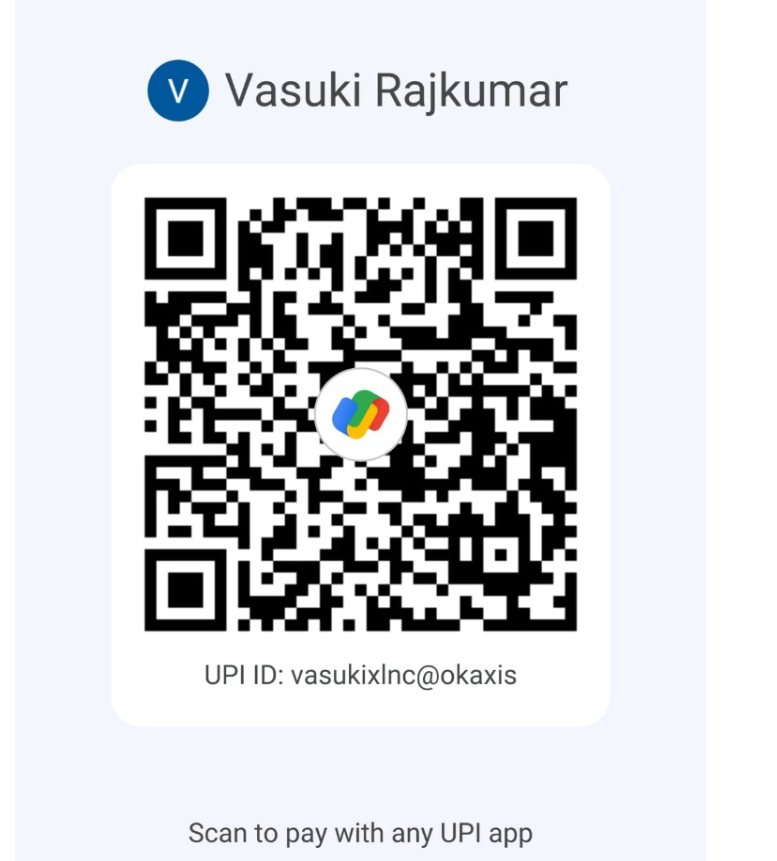
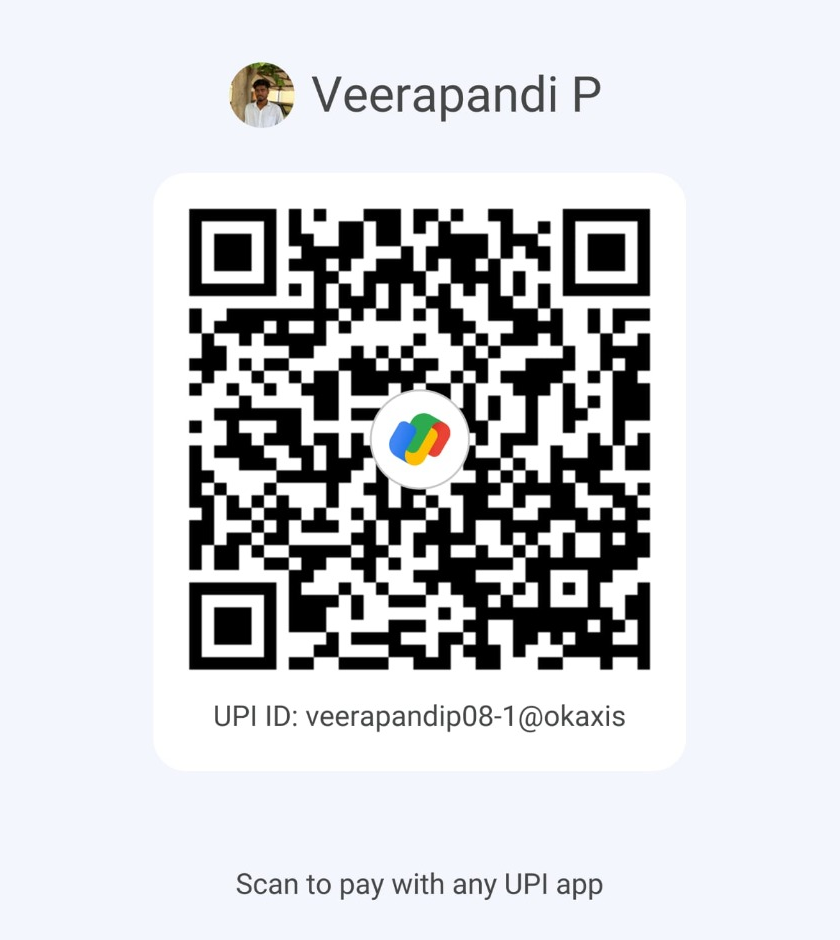
feat: update payment QR code and UPI ID to Veerapandi P (veerapandip08-1@okaxis)

Changed region(s): [[0.1853, 0.2114, 0.7722, 0.8153], [0.1853, 0.0604, 0.7413, 0.151], [0.2471, 0.9059, 0.7104, 0.9965]]

diff --git a/register.html b/register.html
@@ -377,11 +377,11 @@
 
             <div class="upi-copy-box">
               <span style="font-size: 0.85rem; color: var(--silver-mid);">UPI ID: <strong class="text-gold"
-                  id="upi-id-text">vasukixlnc@okaxis</strong></span>
+                  id="upi-id-text">veerapandip08-1@okaxis</strong></span>
               <button type="button" id="copy-upi-btn" class="btn btn-admin"
                 style="padding: 4px 10px; font-size: 0.75rem;" title="Copy UPI ID">Copy</button>
             </div>
-            <div class="text-muted" style="font-size: 0.75rem; margin-top: 6px;">Payee Name: Vasuki Rajkumar (Symposium
+            <div class="text-muted" style="font-size: 0.75rem; margin-top: 6px;">Payee Name: Veerapandi P (Symposium
               Organizing Team)</div>
           </div>
         </div>
@@ -441,7 +441,7 @@
             <label for="terms" style="font-size: 0.88rem; color: var(--silver-mid); cursor: pointer;">
               I confirm that all details provided are accurate and the UPI transaction UTR entered corresponds to the
               exact fee of <strong class="text-gold" id="terms-amount-text">₹200</strong> paid to
-              <strong>vasukixlnc@okaxis</strong>. I agree to abide by the rules and code of conduct of ZENTRIX 2K26.
+              <strong>veerapandip08-1@okaxis</strong>. I agree to abide by the rules and code of conduct of ZENTRIX 2K26.
               <span class="req">*</span>
             </label>
           </div>

diff --git a/js/form.js b/js/form.js
@@ -28,15 +28,16 @@ function initCopyUPI() {
 
   if (copyBtn && upiText) {
     copyBtn.addEventListener('click', async () => {
+      const upiId = upiText.textContent.trim();
       try {
-        await navigator.clipboard.writeText(upiText.textContent.trim());
+        await navigator.clipboard.writeText(upiId);
         copyBtn.textContent = 'Copied!';
-        showToast('UPI ID copied to clipboard: vasukixlnc@okaxis', 'success');
+        showToast(`UPI ID copied to clipboard: ${upiId}`, 'success');
         setTimeout(() => {
           copyBtn.textContent = 'Copy';
         }, 2000);
       } catch (e) {
-        showToast('Please manually copy UPI ID: vasukixlnc@okaxis', 'info');
+        showToast(`Please manually copy UPI ID: ${upiId}`, 'info');
       }
     });
   }

diff --git a/js/receipt.js b/js/receipt.js
@@ -403,7 +403,7 @@ export function generatePDFReceipt() {
   doc.text('Payee Account:', margin + 95, curY + 13);
   doc.setFont('helvetica', 'bold');
   doc.setTextColor(10, 10, 10);
-  doc.text('vasukixlnc@okaxis (Vasuki Rajkumar)', margin + 120, curY + 13);
+  doc.text('veerapandip08-1@okaxis (Veerapandi P)', margin + 120, curY + 13);
 
   // 8. Event Schedule & Instructions
   curY += 22;

diff --git a/README.md b/README.md
@@ -53,7 +53,7 @@ d:/zentrix/
 ├── assets/
 │   ├── college-crest.png         # Official College Emblem
 │   ├── naac-badge.png            # NAAC A+ Accreditation Badge
-│   ├── payment-qr.png            # UPI Payment QR code (Vasuki Rajkumar / vasukixlnc@okaxis)
+│   ├── payment-qr.png            # UPI Payment QR code (Veerapandi P / veerapandip08-1@okaxis)
 │   ├── whatsapp-qr.png           # WhatsApp group QR code
 │   ├── whatsapp-group-card.png   # Full WhatsApp group invite card
 │   ├── og-image.png              # 1200x630 Open Graph preview banner
